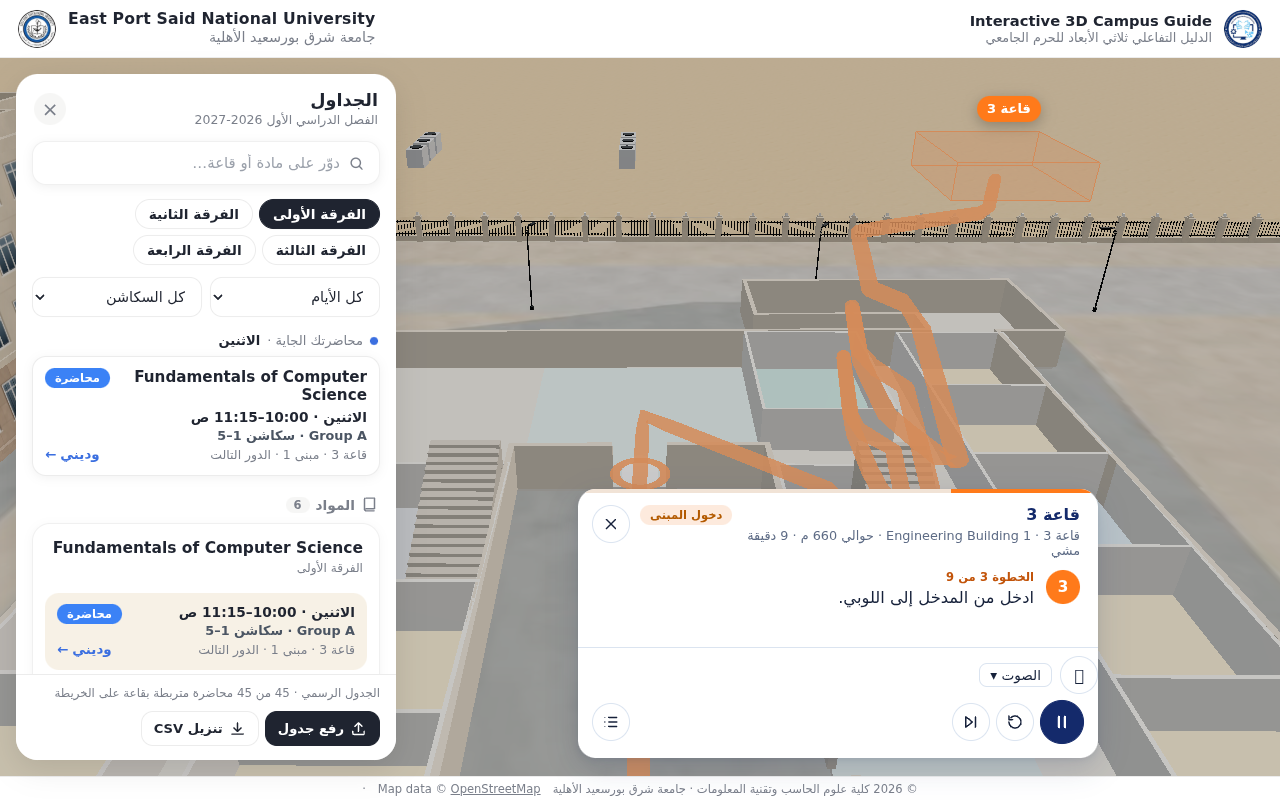
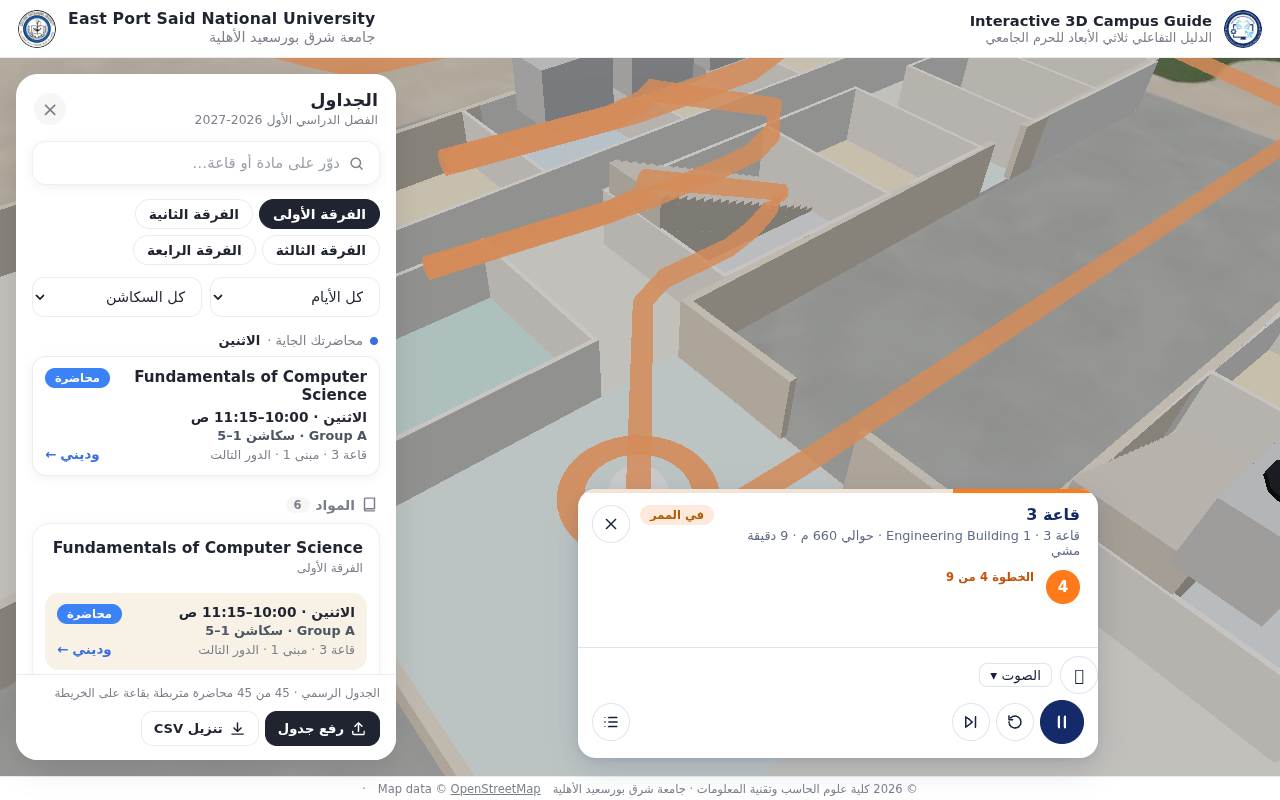
test: structural route verification (per-flight landing, step-level stair deltas, live+segment states)

diff --git a/viewer/js/app.js b/viewer/js/app.js
@@ -646,7 +646,7 @@ async function main() {
     const id = location.hash.slice(1);
     if (state.items.has(id)) setTimeout(() => select(id, true), 300);
     initRouting();
-    window.__campus = { state, select, step, items: () => [...state.items.keys()], quality, enterFloor: (id, i) => enterFloor(state.items.get(id), i), exitInterior, showRoute, clearRoute, tour: () => state.tour,
+    window.__campus = { state, select, step, items: () => [...state.items.keys()], quality, enterFloor: (id, i) => enterFloor(state.items.get(id), i), exitInterior, showRoute, clearRoute, tour: () => state.tour, route: () => tourRes,
       overview: () => { clearSelection(); flyTo(state.overview.pos, state.overview.target); } };   // QA / integration hook
     window.dispatchEvent(new Event('campus:ready'));   // js/schedule.js waits for this
   } catch (err) {

diff --git a/viewer/js/tour.js b/viewer/js/tour.js
@@ -152,5 +152,7 @@ export function createTour({ scene, camera, controls, onStep, onFloor, onProgres
     start, update, skip, replay, toggle, stop, release,
     get active() { return active; }, get playing() { return playing && !ended; },
     get state() { return state; }, navLog,
+    /** per-segment navigation states (QA: the full precomputed sequence, independent of frame timing) */
+    states: () => segs.map((x) => x.nav),
   };
 }

diff --git a/pipeline/qa_navigation.py b/pipeline/qa_navigation.py
@@ -67,18 +67,36 @@ async def main():
         nav, floors = timeline[-1]['nav'], timeline[-1]['floors']
 
         check('navigation reaches ARRIVED', timeline[-1]['state'] == 'ARRIVED', f"{time.time()-t0:.0f}s")
-        check('state machine used (explicit states)', 'CLIMBING' in nav and 'FLOOR_LANDING' in nav, ' → '.join(dict.fromkeys(nav)))
-        climbs = nav.count('CLIMBING')
-        check('three separate climbing flights (G→1→2→3)', climbs >= 3, f'CLIMBING segments: {climbs}')
-        # floor sequence must be progressive: -1 (outside) then 0,1,2,3 in order
-        seen = []
-        for f in floors:
-            if not seen or seen[-1] != f: seen.append(f)
-        check('floor transitions are progressive (no teleport)', seen == [-1, 0, 1, 2, 3], str(seen))
-        # walker height must change gradually: no jump > 1.2 m between samples (a full floor is 4–4.5 m)
-        ys = [s['y'] for s in timeline if s['y'] is not None]
-        max_jump = max((abs(b - a) for a, b in zip(ys, ys[1:])), default=0)
-        check('walker climbs gradually (no vertical teleport)', max_jump <= 1.2, f'max Δy between samples: {max_jump} m')
+
+        # structural verification from the route itself (independent of frame timing / QA speed-up)
+        struct = await page.evaluate("""() => {
+            const r = window.__campus.route(), t = window.__campus.tour();
+            if (!r) return null;
+            const stairDy = [];
+            for (let i = 1; i < r.track.length; i++) {
+                if (r.track[i].kind === 'stair') stairDy.push(Math.abs(r.track[i].p.y - r.track[i-1].p.y));
+            }
+            const states = t.states();
+            const floorsSeen = [];
+            for (const x of t.navLog) { const f = x.floor; if (f !== null && (!floorsSeen.length || floorsSeen[floorsSeen.length-1] !== f)) floorsSeen.push(f); }
+            // each climbing flight must be followed by a landing before the next flight
+            let flights = 0, okPattern = true;
+            for (let i = 0; i < states.length; i++) {
+                if (states[i] === 'CLIMBING') {
+                    flights++;
+                    let j = i; while (j < states.length && states[j] === 'CLIMBING') j++;
+                    if (states[j] !== 'FLOOR_LANDING') okPattern = false;
+                }
+            }
+            return { stairDyMax: Math.max(...stairDy, 0), stairSegs: stairDy.length, flights, okPattern, floorsSeen, states: [...new Set(states)] };
+        }""")
+        check('state machine used (explicit states)', struct and set(['WALKING', 'ENTERING_DOOR', 'CORRIDOR_NAVIGATION', 'APPROACHING_STAIRS', 'CLIMBING', 'FLOOR_LANDING', 'ARRIVED']) <= set(struct['states']), str(struct and struct['states']))
+        check('three separate climbing flights (G→1→2→3)', struct and struct['flights'] >= 3, f"flights: {struct and struct['flights']}")
+        check('every flight ends in a floor landing', struct and struct['okPattern'])
+        check('floor transitions are progressive (no teleport)', struct and struct['floorsSeen'] == [-1, 0, 1, 2, 3], str(struct and struct['floorsSeen']))
+        check('stairs are walked step by step (no vertical teleport)', struct and struct['stairDyMax'] <= 0.3 and struct['stairSegs'] >= 50,
+              f"{struct and struct['stairSegs']} stair segments, max step Δy = {struct and struct['stairDyMax']} m")
+        check('live nav log shows the major transitions', all(x in nav for x in ['WALKING', 'APPROACHING_STAIRS', 'CLIMBING', 'ARRIVED']), ' → '.join(dict.fromkeys(nav)))
         await page.screenshot(path=f'{OUT}/03_arrived.png')
 
         # 4) voice module (real runtime voices only)
